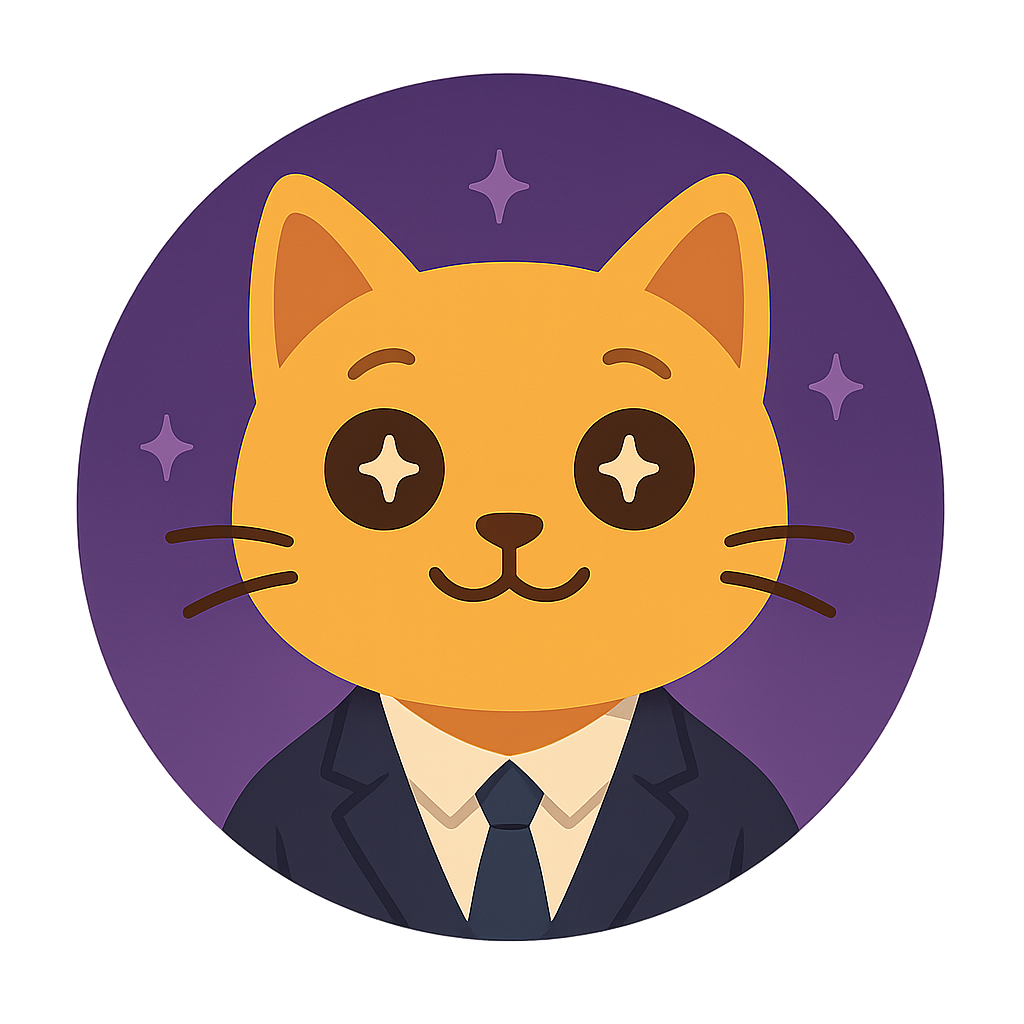
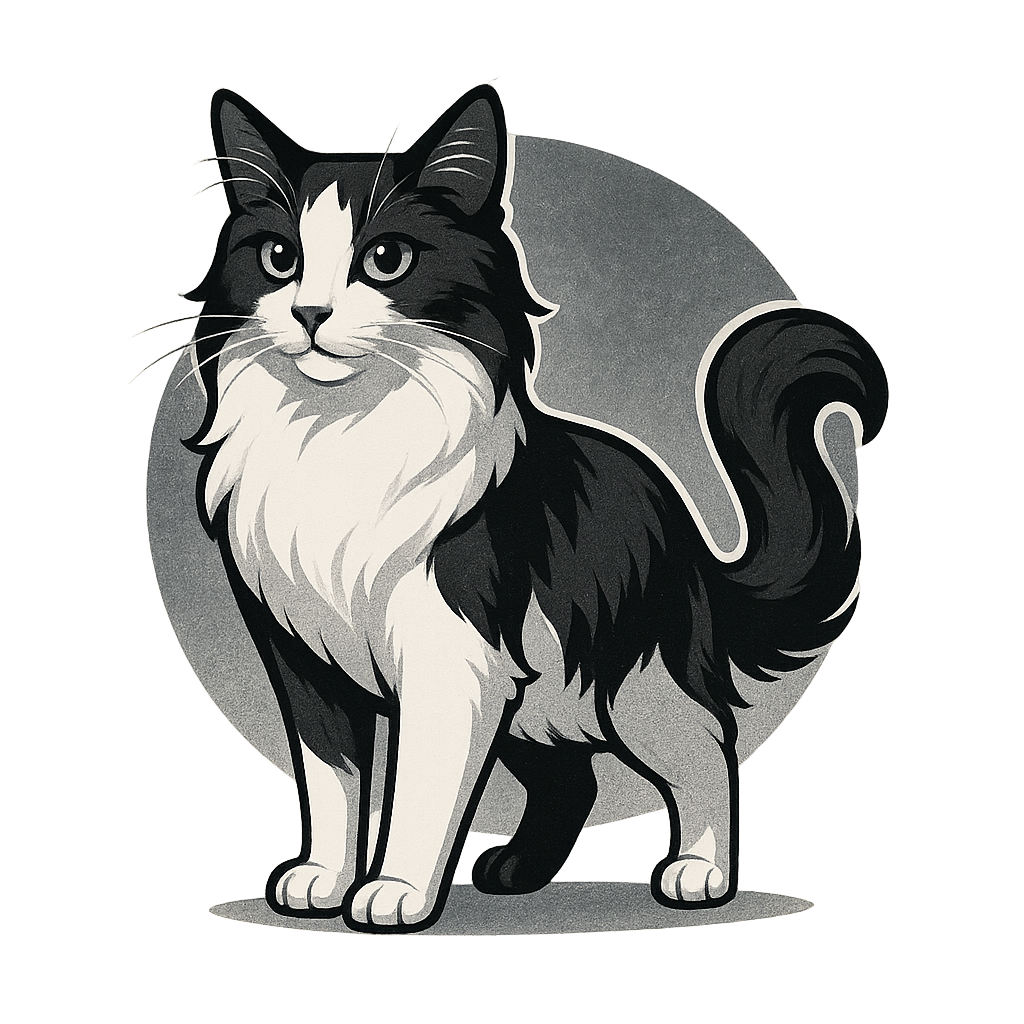
Differentiate Kimi with a purebred full-body Van cat identity
Kimi's previous identity still carried the old name and a palette that
sat too close to the ragdoll purple family. This pass renames the cat to
梵花猫, removes the legacy 金吉拉 alias, shifts the roster colors to a
cool black-and-silver scheme, and replaces the avatar with a non-anthro,
full-body Turkish Van illustration so the cat reads as part of the same
roster while staying visually distinct.

Constraint: Keep provider/catId compatibility stable while changing only display identity, mentions, colors, and avatar art
Rejected: Preserve the old 金吉拉 alias for compatibility | keeps the stale identity alive and undermines the rename
Rejected: Keep a humanoid/suited mascot | breaks the pure-cat visual language used by the rest of the roster
Confidence: high
Scope-risk: moderate
Reversibility: clean
Directive: Future Kimi identity updates should keep the pure-cat full-body silhouette and avoid drifting back toward ragdoll purple or anthropomorphic styling
Tested: cd packages/api && pnpm run build && node --test ../shared/test/cat-configs.test.js; cd packages/web && pnpm exec vitest run src/components/__tests__/message-navigator.test.ts src/components/__tests__/session-chain-panel.test.ts src/components/__tests__/hub-cat-editor.test.tsx; pnpm -C /private/tmp/clowder-kimi check
Not-tested: Manual in-app review of every roster/avatar surface after rename

diff --git a/packages/api/src/routes/quota.ts b/packages/api/src/routes/quota.ts
@@ -739,7 +739,7 @@ function buildKimiSummaryPlatform(): QuotaSummaryPlatform {
   if (kimiCache.error) {
     return {
       id: 'kimi',
-      label: '金吉拉 (Kimi)',
+      label: '梵花猫 (Kimi)',
       displayPercent: null,
       displayKind: null,
       utilizationPercent: null,
@@ -751,7 +751,7 @@ function buildKimiSummaryPlatform(): QuotaSummaryPlatform {
   if (kimiCache.status === 'unavailable') {
     return {
       id: 'kimi',
-      label: '金吉拉 (Kimi)',
+      label: '梵花猫 (Kimi)',
       displayPercent: null,
       displayKind: null,
       utilizationPercent: null,
@@ -768,7 +768,7 @@ function buildKimiSummaryPlatform(): QuotaSummaryPlatform {
   if (!primary) {
     return {
       id: 'kimi',
-      label: '金吉拉 (Kimi)',
+      label: '梵花猫 (Kimi)',
       displayPercent: null,
       displayKind: null,
       utilizationPercent: null,
@@ -780,7 +780,7 @@ function buildKimiSummaryPlatform(): QuotaSummaryPlatform {
   const utilization = toUtilizationPercent(primary);
   return {
     id: 'kimi',
-    label: '金吉拉 (Kimi)',
+    label: '梵花猫 (Kimi)',
     displayPercent: normalizePercent(primary.usedPercent),
     displayKind: primary.percentKind ?? 'used',
     utilizationPercent: utilization,
@@ -831,7 +831,7 @@ export function buildQuotaSummary(env: NodeJS.ProcessEnv = process.env): QuotaSu
   }
 
   if (kimi.status === 'error') {
-    reasons.push(`金吉拉额度异常：${kimi.note}`);
+    reasons.push(`梵花猫额度异常：${kimi.note}`);
     level = 'high';
   }
 

diff --git a/packages/api/test/kimi-agent-service.test.js b/packages/api/test/kimi-agent-service.test.js
@@ -347,7 +347,7 @@ test('wraps system prompt separately and adds local image path hints', async () 
   try {
     const promise = collect(
       service.invoke('帮我分析图片', {
-        systemPrompt: '你是金吉拉，回答要简洁。',
+        systemPrompt: '你是梵花猫，回答要简洁。',
         contentBlocks: [{ type: 'image', url: '/uploads/example.png' }],
         uploadDir,
       }),
@@ -360,7 +360,7 @@ test('wraps system prompt separately and adds local image path hints', async () 
     assert.ok(promptFlagIndex >= 0);
     const effectivePrompt = args[promptFlagIndex + 1];
     assert.match(effectivePrompt, /<system_instructions>/);
-    assert.match(effectivePrompt, /你是金吉拉/);
+    assert.match(effectivePrompt, /你是梵花猫/);
     assert.match(effectivePrompt, /example\.png/);
   } finally {
     rmSync(uploadDir, { recursive: true, force: true });

diff --git a/packages/web/src/components/__tests__/session-chain-panel.test.ts b/packages/web/src/components/__tests__/session-chain-panel.test.ts
@@ -35,14 +35,14 @@ vi.mock('@/hooks/useCatData', () => ({
     cats: [
       { id: 'opus', displayName: '布偶猫', color: { primary: '#7C3AED', secondary: '#EDE9FE' } },
       { id: 'codex', displayName: '缅因猫', color: { primary: '#059669', secondary: '#D1FAE5' } },
-      { id: 'kimi', displayName: '金吉拉', color: { primary: '#7C3AED', secondary: '#EDE9FE' } },
+      { id: 'kimi', displayName: '梵花猫', color: { primary: '#4B5563', secondary: '#E5E7EB' } },
     ],
     isLoading: false,
     getCatById: (id: string) => {
       const map: Record<string, unknown> = {
         opus: { id: 'opus', displayName: '布偶猫' },
         codex: { id: 'codex', displayName: '缅因猫' },
-        kimi: { id: 'kimi', displayName: '金吉拉' },
+        kimi: { id: 'kimi', displayName: '梵花猫' },
       };
       return map[id];
     },

diff --git a/packages/web/src/components/__tests__/hub-cat-editor.test.tsx b/packages/web/src/components/__tests__/hub-cat-editor.test.tsx
@@ -879,13 +879,13 @@ describe('HubCatEditor', () => {
   it('switches a Kimi cat to the selected API profile model when builtin-only model would be invalid', async () => {
     const existingCat = {
       id: 'kimi',
-      name: '金吉拉',
-      displayName: '金吉拉',
+      name: '梵花猫',
+      displayName: '梵花猫',
       provider: 'kimi',
       providerProfileId: 'kimi',
       accountRef: 'kimi',
       defaultModel: 'kimi-code/kimi-for-coding',
-      color: { primary: '#7C3AED', secondary: '#EDE9FE' },
+      color: { primary: '#4B5563', secondary: '#E5E7EB' },
       mentionPatterns: ['@kimi'],
       avatar: '/avatars/kimi.png',
       roleDescription: '中文助手',

diff --git a/packages/shared/src/types/cat.ts b/packages/shared/src/types/cat.ts
@@ -141,14 +141,14 @@ export const CAT_CONFIGS: Record<string, CatConfig> = {
   },
   kimi: {
     id: createCatId('kimi'),
-    name: '金吉拉',
-    displayName: '金吉拉',
+    name: '梵花猫',
+    displayName: '梵花猫',
     avatar: '/avatars/kimi.png',
     color: {
-      primary: '#7C3AED',
-      secondary: '#EDE9FE',
+      primary: '#4B5563',
+      secondary: '#E5E7EB',
     },
-    mentionPatterns: ['@kimi', '@moonshot', '@月之暗面', '@金吉拉'],
+    mentionPatterns: ['@kimi', '@moonshot', '@月之暗面', '@梵花猫'],
     provider: 'kimi',
     defaultModel: 'kimi-code/kimi-for-coding',
     mcpSupport: true,

diff --git a/packages/shared/test/cat-configs.test.js b/packages/shared/test/cat-configs.test.js
@@ -5,6 +5,6 @@ import { CAT_CONFIGS } from '../dist/index.js';
 test('CAT_CONFIGS exposes first-class kimi fallback cat', () => {
   assert.equal(CAT_CONFIGS.kimi?.provider, 'kimi');
   assert.equal(CAT_CONFIGS.kimi?.avatar, '/avatars/kimi.png');
-  assert.equal(CAT_CONFIGS.kimi?.displayName, '金吉拉');
+  assert.equal(CAT_CONFIGS.kimi?.displayName, '梵花猫');
   assert.equal(CAT_CONFIGS.kimi?.breedId, 'moonshot');
 });

diff --git a/packages/web/src/components/MessageNavigator.tsx b/packages/web/src/components/MessageNavigator.tsx
@@ -26,7 +26,7 @@ const FALLBACK_CAT_META: Record<string, { label: string; color: string }> = {
   opus: { label: '布偶猫', color: '#9B7EBD' },
   codex: { label: '缅因猫', color: '#5B8C5A' },
   gemini: { label: '暹罗猫', color: '#5B9BD5' },
-  kimi: { label: 'Kimi', color: '#7C3AED' },
+  kimi: { label: '梵花猫', color: '#4B5563' },
   dare: { label: '狸花猫', color: '#D4A76A' },
 };
 

diff --git a/packages/web/src/components/__tests__/message-navigator.test.ts b/packages/web/src/components/__tests__/message-navigator.test.ts
@@ -125,7 +125,7 @@ describe('MessageNavigator', () => {
     const msgs = [makeMsg('m1', 'user'), makeMsg('m2', 'assistant', 'kimi'), makeMsg('m3', 'assistant', 'codex')];
     const html = render(msgs);
 
-    expect(html).toContain('跳转到 金吉拉 的消息');
+    expect(html).toContain('跳转到 梵花猫 的消息');
   });
 
   it('includes accessibility labels', () => {

diff --git a/packages/web/src/components/AuthorizationCard.tsx b/packages/web/src/components/AuthorizationCard.tsx
@@ -7,7 +7,7 @@ const CAT_LABELS: Record<string, string> = {
   opus: '布偶猫',
   codex: '缅因猫',
   gemini: '暹罗猫',
-  kimi: '金吉拉',
+  kimi: '梵花猫',
   dare: '狸花猫',
 };
 
